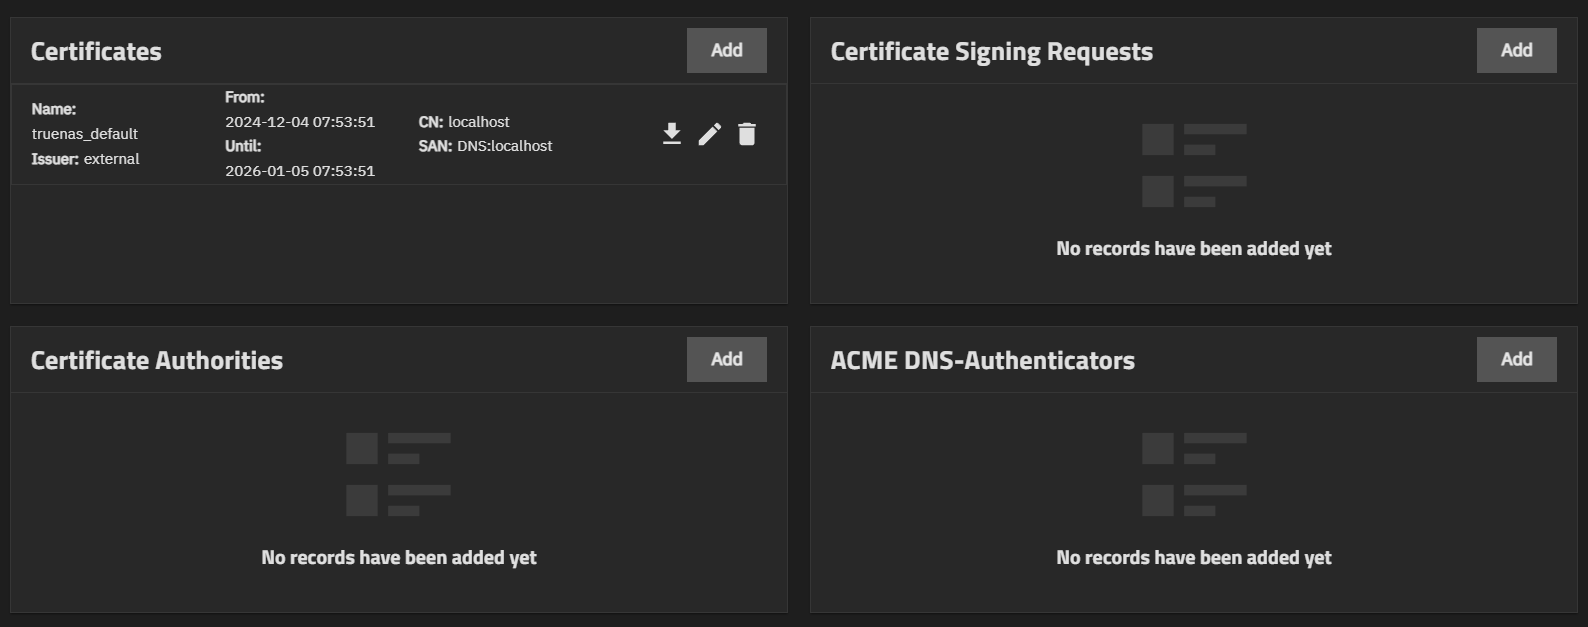
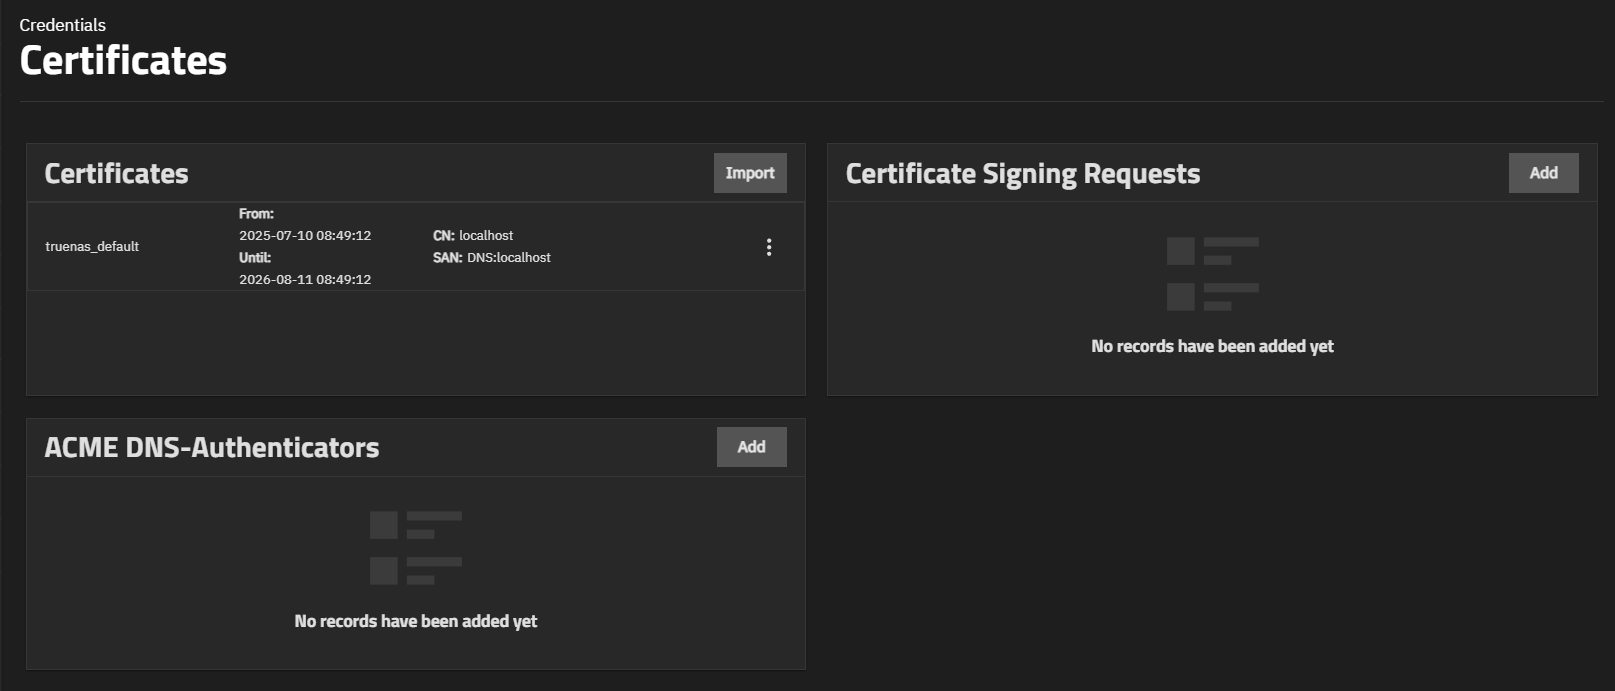
PD-1882 Update KMIP Content
This commit updates the KMIP tutorial, removing references to CAs, and adds new screenshots for Certificates and CSRs

diff --git a/content/SCALE/SCALEUIReference/Credentials/Certificates/CSRScreensSCALE.md b/content/SCALE/SCALEUIReference/Credentials/Certificates/CSRScreensSCALE.md
@@ -8,24 +8,78 @@ tags:
  - certificates
 ---
 
-The **Certificates** screen includes the **Certificate Signing Requests** widget that displays a list of certificate signing requires (CSRs) configured on the system.
+The **Certificate Signing Requests** widget, on the **Certificates** screen, shows a list of certificate signing requires (CSRs) configured on the system.
+CSR.
 
-Each CSR listed is a link that opens the **Edit CA** screen for the selected CSR.
+{{< trueimage src="/images/SCALE/Credentials/CertificateSigningRequestWidgetNoCSR.png" alt="Certificate Signing Request Widget No CSRs" id="Certificate Signing Request Widget No CSRs" >}}
 
-![CertificateSigningRequestWidgetNoCSR](/images/SCALE/Credentials/CertificateSigningRequestWidgetNoCSR.png "Certificate Signing Request Widget No CSRs")
+The <span class="material-icons">more_vert</span> icon for a listed CSR shows a dropdown list of options to create an ACME certificate, download, edit, or delete an existing CSR.
 
-The <span class="iconify" data-icon="mdi:tray-arrow-down"></span> download icon downloads the CSR to your server.
+**Create ACME Certificate** opens the [**Create ACME Certificate**](#create-acme-certificate-screen) screen.
 
-<span class="material-icons">delete</span> deletes the CSR from your server.
+**Edit** opens the [**Edit CA**](#edit-csr-screen) screen for the selected CSR.
 
-Each CSR listed on the widget is a link that opens the **Edit CSR** screen.
+<span class="iconify" data-icon="mdi:tray-arrow-down"></span> **Download** puts a copy of the CSR on your server.
 
-**Add** opens the **[Add CSR](#add-csr-wizard-screens)** wizard that steps you through setting up a CSR that certifies the ownership of a public key by the named subject of the certificate.
-The **Certificate Signing Requests** section allows users to configure the message(s) the system sends to a registration authority of the public key infrastructure to apply for a digital identity certificate.
+<span class="material-icons">delete</span> **Delete** opens the **Delete Certificate** dialog.
+
+**Add** opens the **[Add CSR](#add-csr-wizard-screens)** wizard. 
+
+### Create ACME Certificate Screen
+
+The **Create ACME Certificate** screen shows setttings to create an ACME Certificate by selecting an ACME Server Directory URI.
+
+{{< trueimage src="/images/SCALE/Credentials/CreateACMECertificateScreen.png" alt="Create ACME Certificate Screen" id="Create ACME Certificate Screen" >}}
+
+{{< truetable >}}
+| Setting | Description |
+|---------|-------------|
+| **Identifier** | A text entry field that accepts manual or copy/paste entry of a name for the certificate. A name consits of alphanumeric characters, and can use the underscore (_), and/or dash (-) special characters. |
+| **Terms of Service** | Accepts the termis of service for the given ACME server. |
+| **Renew Certificate Days** | Specified the number of days to renew the certificate before it expires. |
+| **Custom ACME Server Directory URI** | Enables using a custom ACME server directory URI. <br>If the **ACME Server Directory URI** is set to **Lets Encrypt Staging Directory**, enabling this option changes the **ACME Server Directory URI** value to show **https://acme-staging-v02.api.letsencrypt.org/directory**. <br>If the **ACME Server Directory URI** is set to **Let's Encrypt Production Directory**, enabling this option changes the **ACME Server Directory URI** value changes to show **https://acme-v02.api.letsencrypt.org/directory**. |
+| **ACME Server Directory URI** | Sets the URI of the ACME server director. Shows two preconfigured URI options on a dropdown list: **Lets Encrypt Staging Directory** and **Let's Encrypt Production Directory**. <br><li>**Lets Encrypt Staging Directory**  <br><li>**Let's Encrypt Production Directory**  </li> |
+| **DNS:UnitedStates** | Sets the authenticator to validate the domain. Shows a dropdown list of previously configured ACME DNS authenticators. |
+{{< /truetable >}}
+
+### Edit CSR Screen
+
+The **Edit CSR** screen shows the current CSR settings. It allows changing the CSR name (identifier), downloading or viewing the CSR, and provides access to the **Create ACME Certificate** screen.
+
+{{< trueimage src="/images/SCALE/Credentials/EditCSRScreen.png" alt="Edit CSR Screen" id="Edit CSR Screen" >}}
+
+{{< truetable >}}
+| Setting | Description |
+|---------|-------------|
+| **Common** | Shows the common name for the certificate. A name can include the underscore (_) or dash (-) special characters. The default value for the **truenas_default** certificate is **localhost**. |
+| **SAN** | Shows the subject alternative name (SAN) name for the certificate. The default value for the **truenas_default** certificate is **DNS:localhost**. |
+| **Distinguished Name** | Shows the full directory service distinguished name for the certificate. This includes the country, organization, common name, email address, state, locality, and SAN properties. |
+| **Country** | Shows the country where the certificate is issued. The default value for the **truenas_default** certificate is **US**. |
+| **State** | Shows the organization for the certificate. The default value for the **truenas_default** certificate is **iXsystems**. |
+| **City** | Shows the city where the certificate organization is located. The default value for the **truenas_default** certificate is **Maryville** |
+| **Organization** | Shows the country where the certificate is issued. The default value for the **truenas_default** certificate is **US** |
+| **Organizational Unit** | Shows the department in the organization for the certificate. No default value for the **truenas_default** certificate is specified. |
+| **Email** | Shows the email address associated with the certificate. The default value for the **truenas_default** certificate is **info@ixsystems.com.** |
+| **Type** | Shows the type of certificate. The default value for the **truenas_default** certificate is **Certificate**. |
+| **Path** | Shows the path to where the certificate is stored. The default value for the **truenas_default** certificate is <code>/etc/certificates</code>. |
+| **Digest Algorithmm** | Shows the authentication protocol for the certificates. The default value for the **truenas_default** certificate is **SHA256S**. |
+| **Key Length** | Shows the number of characters in the key for the certificate. The default value for the **truenas_default** certificate is **2048**. |
+{{< /truetable >}}
+
+**View/Download Certificate** opens a window with the certificate string.
+
+**View/Download Key** opens a window with the certificate private key.
+
+The <span class="material-icons">assignment</span> clipboard icon copies the certificate or public key to the clipboard.
+
+{{< include file="/static/includes/DeleteCertificateDialog.md" >}}
 
 ## Add CSR Wizard Screens
-The **Add CSR** wizard screens step users through configuring a new certificate signing request (CSR) on TrueNAS.
-The wizard has five different configuration screens, one for each step in the CA configuration process:
+
+Certificate signing requests (CSR) allows users to configure a message the TrueNAS system sends to a registration authority of the public key infrastructure to apply for a digital identity certificate.
+
+The **Add CSR** wizard has five screens that step through configuring a new certificate signing request (CSR) on TrueNAS.
+The wizard screens are:
 
 1 **[Identifier and Type](#identifier-and-type-options)**
 
@@ -38,12 +92,13 @@ The wizard has five different configuration screens, one for each step in the CA
 5 **[Confirm Options](#confirm-options)**
 
 ### Identifier and Type Options
+
 The **Identifier and Type** settings specify the certificate signing request (CSR) name and whether to create a new CSR or import an existing CSR.     
 Users can also select a predefined certificate extension from the **Profile** dropdown list.
 {{< expand "Click Here for More Information" "v" >}}
 The selection in **Type** changes setting options on this screen, the **Certificate Options** and **Extra Constraints** screens, and determines if the **Certificate Subject** screen displays at all.
 
-![AddCSRIdentifierAndType](/images/SCALE/Credentials/AddCSRIdentifierAndType.png "Add CSR Identifier and Type")
+{{< trueimage src="/images/SCALE/Credentials/AddCSRIdentifierAndType.png" alt="Add CSR Identifier and Type" id="Add CSR Identifier and Type" >}}
 
 {{< truetable >}}
 | Setting | Description |
@@ -60,10 +115,11 @@ The **Certificate Options** settings specify the type of private key type to use
 There are no **Certificate Options** settings if **Type** on the **Identifier and Type** screen is set to **Import Certificate Signing Request**.
 
 The **Key Type** selection changes fields displayed. **RSA** is the default setting in **Key Type**.
-{{< expand "Click Here for More Information" "v" >}}
 
+{{< trueimage src="/images/SCALE/Credentials/AddCSRIdentifierAndType.png" alt="Add CSR Identifier and Type" id="Add CSR Identifier and Type" >}}
 ![AddCSRCertificateOptionsRSAType](/images/SCALE/Credentials/AddCSRCertificateOptionsRSAType.png "Add CSR Certificate Options RSA Type")
 
+{{< expand "Certificate Options Settings" "v" >}}
 {{< truetable >}}
 | Setting | Description |
 |---------|-------------|
@@ -80,10 +136,11 @@ The **Certificate Subject** settings lets users define the location, name, and e
 Users can also enter the system [fully-qualified hostname (FQDN)](https://kb.iu.edu/d/aiuv) and any additional domains for multi-domain support.
 
 The **Certificate Subject** settings do not display if **Type** on the **Identifier and Type** screen is set to **Import Certificate Signing Request**.
-{{< expand "Click Here for More Information" "v" >}}
 
+{{< trueimage src="/images/SCALE/Credentials/AddCSRIdentifierAndType.png" alt="Add CSR Identifier and Type" id="Add CSR Identifier and Type" >}}
 ![AddCSRCertificateSubject](/images/SCALE/Credentials/AddCSRCertificateSubject.png "Add CSR Certificate Subject CSR Type") 
 
+{{< expand "Certificate Subject Settings" "v" >}}
 {{< truetable >}}
 | Setting | Description |
 |---------|-------------|
@@ -99,6 +156,9 @@ The **Certificate Subject** settings do not display if **Type** on the **Identif
 {{< /expand >}}
 
 ### Extra Constraints Settings
+
+{{< trueimage src="/images/SCALE/Credentials/AddCSRExtraConstraints.png" alt="Add CSR Extra Constraints" id="Add CSR Extra Constraints" >}}
+
 The **Extra Constraints** settings contains certificate extension options:
 * **Basic Constraints** that when enabled limits the path length for a certificate chain.
 * **Authority Key Identifier** that when enabled provides a means of identifying the public key corresponding to the private key used to sign a certificate.
@@ -109,10 +169,11 @@ The **Extra Constraints** settings change based on the selection in **Type** on 
 
 #### Extra Constraints - Certificate Signing Request Type
 After selecting **Basic Constraints**, **Authority Key Identifier**, **Extended Key Usage**, or **Key Usage**, each displays more settings that option needs.
-{{< expand "Click Here for More Information" "v" >}}
 
+{{< trueimage src="/images/SCALE/Credentials/AddCSRIdentifierAndType.png" alt="Add CSR Identifier and Type" id="Add CSR Identifier and Type" >}}
 ![AddCSRExtraConstraintsAllExpanded](/images/SCALE/Credentials/AddCSRExtraConstraintsAllExpanded.png "Add CSR Extra Constraints")
 
+{{< expand "Click Here for More Information" "v" >}}
 {{< truetable >}}
 | Setting | Description |
 |---------|-------------|
@@ -129,10 +190,11 @@ After selecting **Basic Constraints**, **Authority Key Identifier**, **Extended 
 
 #### Import Certificate Signing Request Type Options
 When **Type** on **Identifier and Type** is set to **Import Certificate Signing Request** the **Import Certificate** screen displays.
-{{< expand "Click Here for More Information" "v" >}}
 
+{{< trueimage src="/images/SCALE/Credentials/AddCSRExtraConstraints.png" alt="Add CSR Extra Constraints" id="Add CSR Extra Constraints" >}}
 ![AddCSRImportCSR](/images/SCALE/Credentials/AddCSRImportCSR.png "Add CSR Import Certificate")
 
+{{< expand "Click Here for More Information" "v" >}}
 {{< truetable >}}
 | Setting | Description |
 |---------|-------------|
@@ -148,6 +210,7 @@ When **Type** on **Identifier and Type** is set to **Import Certificate Signing 
 The final step screen is the **Confirm Options** that displays the CA **Type**, **Key Type**, **Key Length**, **Digest Algorithm**, **Lifetime**, **Country**, and **Basich Constraints Config**.
 For **Import Certificate Signing Request** type, the screen displays **Type**, **Signing Request** and **Private Key**.
 
+{{< trueimage src="/images/SCALE/Credentials/AddCSRExtraConstraints.png" alt="Add CSR Extra Constraints" id="Add CSR Extra Constraints" >}}
 ![AddCSRConfirmOptions](/images/SCALE/Credentials/AddCSRConfirmOptions.png "Add CSR Confirm Options")
 
 **Save** adds the certificate to TrueNAS. **Back** returns to previous screens to make changes before you save. **Next** advances to the next screen in the sequence to return to **Confirm Options**.

diff --git a/content/SCALE/SCALETutorials/Credentials/ConfiguringKMIPSCALE.md b/content/SCALE/SCALETutorials/Credentials/ConfiguringKMIPSCALE.md
@@ -34,24 +34,17 @@ To simplify the TrueNAS connection process:
 
 ## Connecting TrueNAS to a KMIP Server
 
-To connect TrueNAS to a KMIP server, import a [certificate authority (CA)]({{< ref "AddCAsSCALE" >}}) and [Certificate]({{< ref "CertificatesSCALE" >}}) from the KMIP server, then configure the KMIP options.
+To connect TrueNAS to a KMIP server, import a [Certificate]({{< ref "CertificatesSCALE" >}}) from the KMIP server, then configure the KMIP options.
 
 {{< expand "How do I import these?" "v" >}}
 Log into the TrueNAS web interface and go to **Credentials > Certificate**. 
-Click **Add** on the **Certificate Authorities** widget. 
-Select **Import CA** from the **Type** dropdown list. 
-Enter a memorable name for the CA, then paste the KMIP server certificate in **Certificate** and the private key in **Private Key**. 
-Leave **Passphrase** empty. 
-Click **Save**.
-
-Next, click **Add** on the **Certificates** widget. 
-Select **Import Certificate** from the **Type** dropdown list. 
+Click **Import** on the **Certificate** widget. 
 Enter a memorable name for the certificate, then paste the KMIP server certificate and private key strings into the related TrueNAS fields. 
 Leave **Passphrase** empty. 
 Click **Save**.
 {{< /expand >}}
 
-For security reasons, we strongly recommend protecting the CA and certificate values.
+For security reasons, we strongly recommend protecting the certificate values.
 
 ### Configuring KMIP in TrueNAS
 
@@ -61,7 +54,7 @@ Go to **Credentials > KMIP**.
 
 Enter the central key server host name or IP address in **Server** and the number of an open connection on the key server in **Port**.
 Select the certificate and certificate authority that you imported from the central key server.
-To ensure the certificate and CA chain is correct, click on **Validate Connection**. Click **Save**.
+To ensure the certificate chain is correct, click on **Validate Connection**. Click **Save**.
 
 When the certificate chain verifies, choose the encryption values, SED passwords, or ZFS data pool encryption keys to move to the central key server.
 Select **Enabled** to begin moving the passwords and keys immediately after clicking **Save**.

diff --git a/content/SCALE/SCALEUIReference/Credentials/Certificates/_index.md b/content/SCALE/SCALEUIReference/Credentials/Certificates/_index.md
@@ -10,11 +10,11 @@ tags:
 related: false
 ---
 
-The **Certificates** screen displays widgets for **Certificates**, **Certificate Signing Requests** (CSRs), **Certificate Authorities** (CA), and **ACME DNS-Authenticators** that each provice access to all the information for certificates, certificate signing requests (CSRs), certificate authorities (CA), and ACME DNS-authenticators respectively.
+The **Certificates** screen displays widgets for **Certificates**, **Certificate Signing Requests** (CSRs), and **ACME DNS-Authenticators** that each provice access to all the information for certificates, certificate signing requests (CSRs), and ACME DNS-authenticators respectively.
 
-![CredentialsCertificatesScreen](/images/SCALE/Credentials/CredentialsCertificatesScreen.png "Credentials Certificates Screen")
+{{< trueimage src="/images/SCALE/Credentials/CredentialsCertificatesScreen.png" alt="Credentials Certificates Screen" id="Credentials Certificates Screen" >}}
 
-Each TrueNAS comes equipped with an internal, self-signed certificate that enables encrypted access to the web interface, but users can make custom certificates for authentication and validation while sharing data.
+Each TrueNAS comes with an internal, self-signed certificate that enables encrypted access to the web interface, but users can make custom certificates for authentication and validation while sharing data.
 
 <div class="noprint">
 
